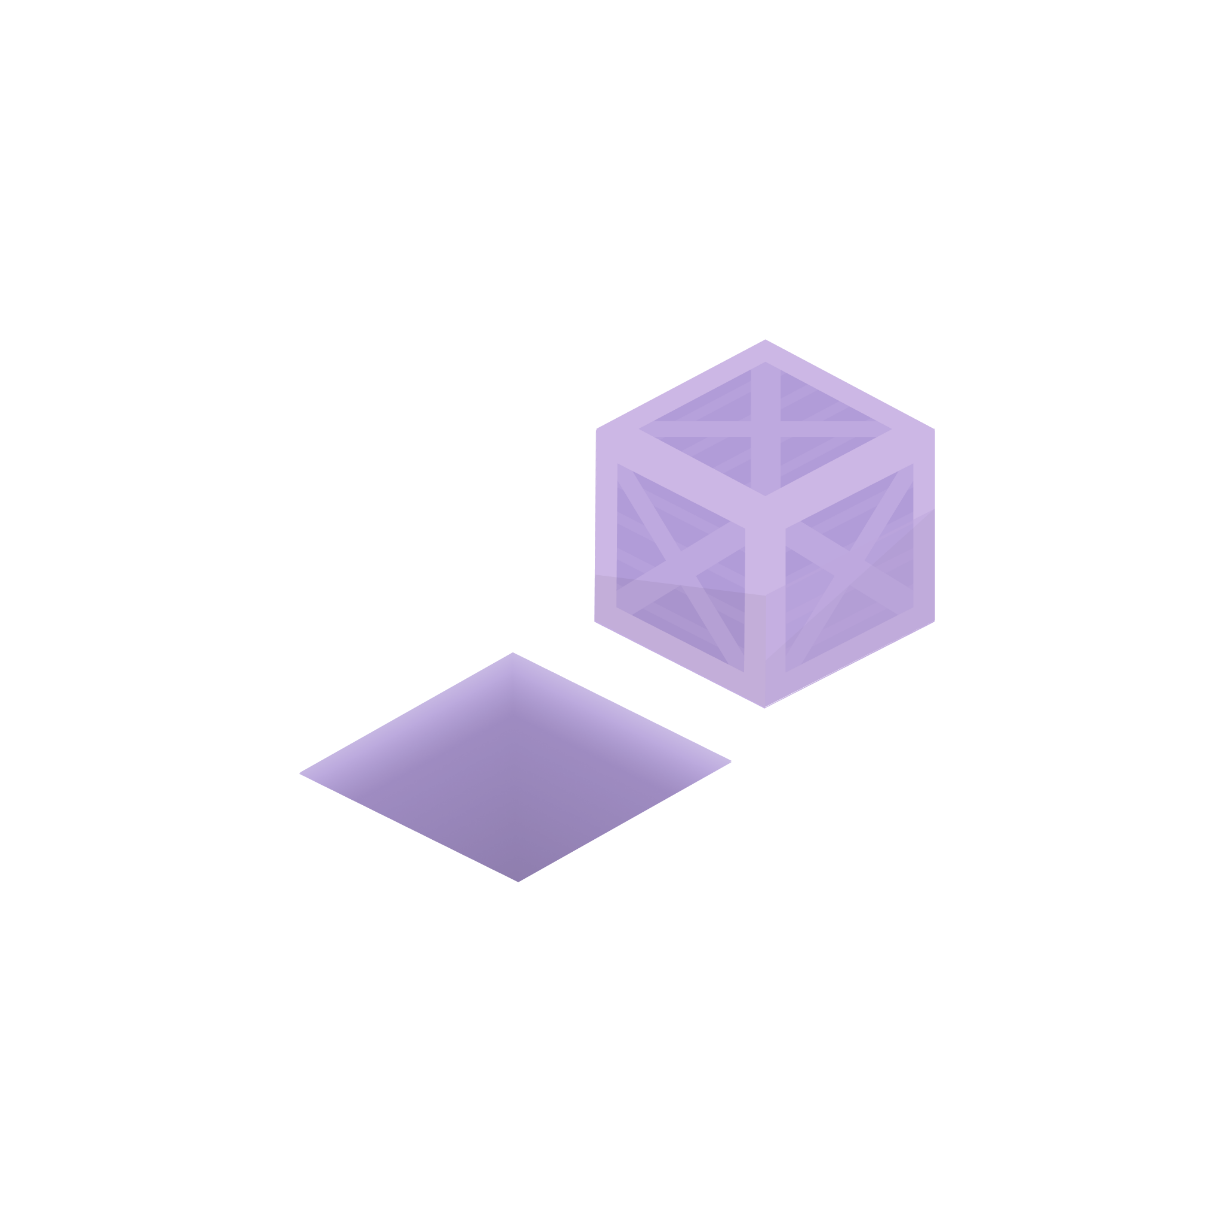
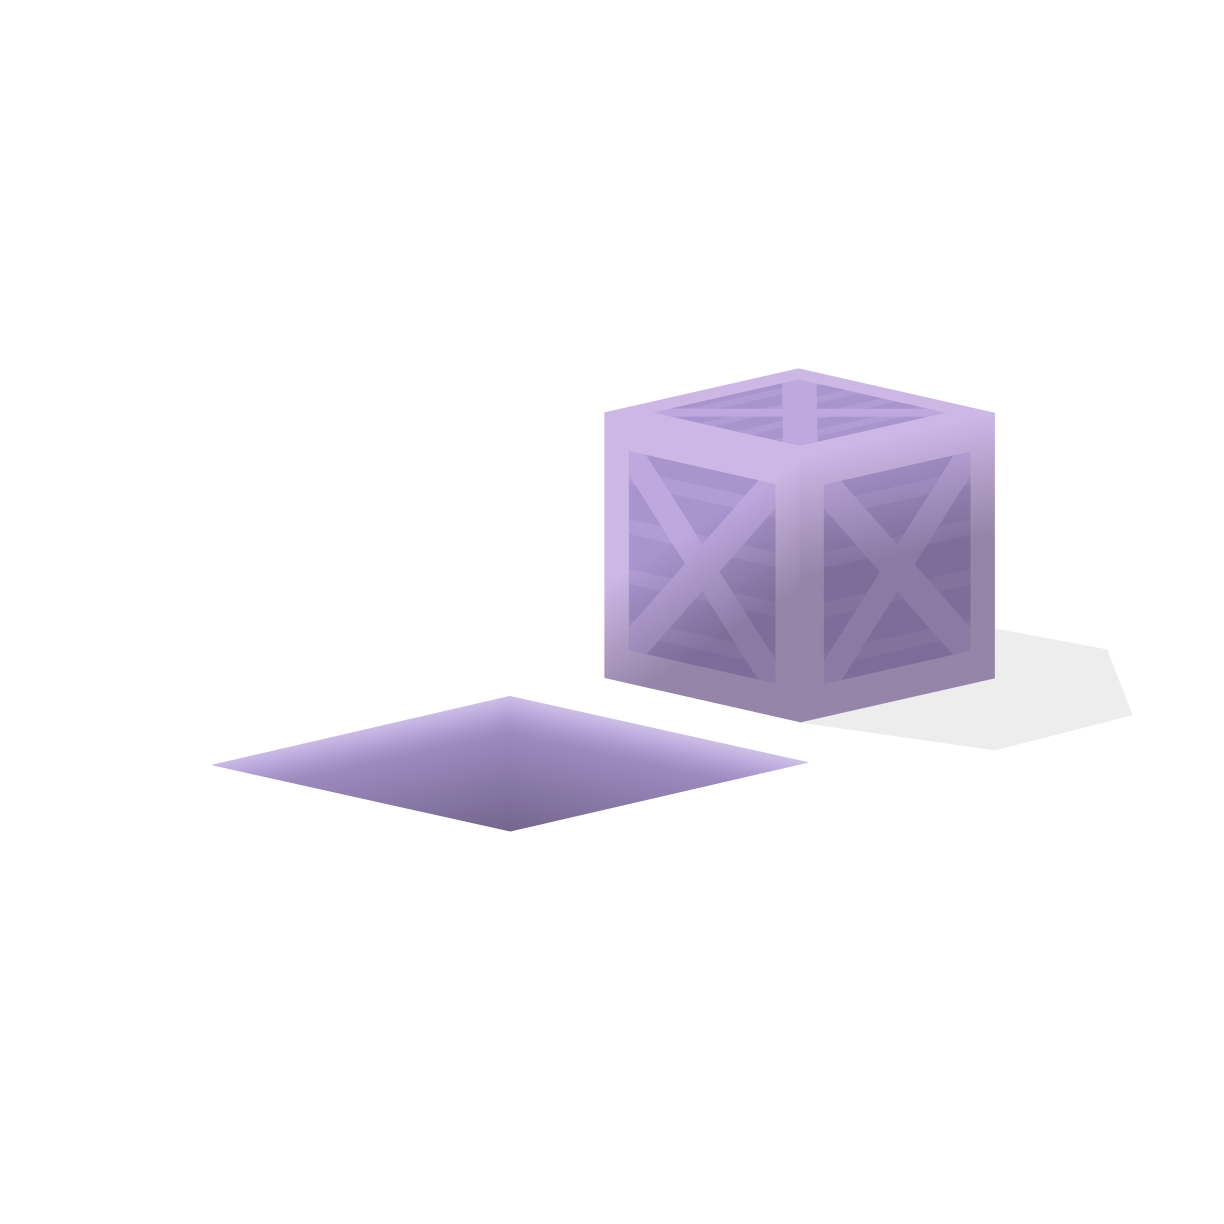
misc graphical and other changes, prep for 3d theme and other improvements

Changed region(s): [[0.3105, 0.2794, 0.8382, 0.652], [0.2794, 0.652, 0.5278, 0.7141], [0.1863, 0.5899, 0.3105, 0.652]]

diff --git a/Game.js b/Game.js
@@ -23,18 +23,18 @@ const blank_level = [
 ];
 const level_tutorial = [
   [1, 1, 1, 1, 1, 1, 1, 1],
-  [1, 0, 0, 0, 1, 4, 0, 1],
-  [1, 0, 7, 0, 1, 0, 4, 1],
-  [1, 0, 0, 0, 1, 5, 0, 1],
-  [1, 4, 4, 4, 1, 1, 1, 1],
-  [1, 0, 0, 0, 12, 6, 0, 1],
-  [1, 0, 0, 0, 1, 0, 0, 1],
-  [1, 1, 1, 1, 1, 4, 4, 1],
-  [1, 0, 0, 0, 1, 5, 5, 1],
-  [1, 0, 6, 0, 2, 0, 0, 1],
-  [1, 0, 0, 0, 1, 0, 0, 1],
-  [1, 0, 8, 0, 1, 0, 0, 1],
-  [1, 0, 0, 0, 1, 0, 3, 1],
+  [1, 0, 0, 4, 0, 0, 0, 5],
+  [1, 7, 0, 4, 0, 0, 0, 5],
+  [1, 0, 6, 4, 0, 0, 0, 5],
+  [1, 1, 1, 1, 1, 1, 0, 1],
+  [1, 0, 3, 0, 0, 0, 4, 1],
+  [1, 0, 0, 0, 4, 0, 5, 1],
+  [1, 0, 0, 0, 0, 6, 0, 1],
+  [1, 5, 0, 4, 0, 0, 0, 1],
+  [1, 5, 1, 1, 1, 1, 1, 1],
+  [1, 0, 0, 5, 1, 0, 0, 0],
+  [1, 0, 0, 4, 2, 0, 8, 0],
+  [1, 0, 6, 0, 1, 0, 0, 0],
   [1, 1, 1, 1, 1, 1, 1, 1],
 ];
 const level_easy_peasy = [
@@ -51,6 +51,22 @@ const level_easy_peasy = [
   [1, 1, 1, 1, 13, 0, 4, 1],
   [1, 0, 6, 5, 0, 4, 0, 1],
   [1, 0, 0, 0, 4, 0, 0, 1],
+  [1, 1, 1, 1, 1, 1, 1, 1],
+];
+const level_having_a_blast = [
+  [1, 1, 1, 1, 1, 1, 1, 1],
+  [0, 0, 1, 0, 0, 5, 4, 5],
+  [0, 0, 2, 4, 7, "b:25", 5, 0],
+  [6, 0, 1, 0, 13, 0, 0, 0],
+  [0, 0, 1, 5, 0, 0, 0, 4],
+  [4, 0, 1, 0, 4, 0, 0, 5],
+  [0, 4, 1, 0, 0, 0, 4, 1],
+  [0, 0, 1, 1, 4, 4, 4, 1],
+  [0, 0, 5, 1, 4, 6, 3, 1],
+  [0, 0, 0, 1, 1, 13, 13, 1],
+  [0, 0, 0, 5, 6, 0, 0, 1],
+  [0, 0, 4, 1, 0, 8, 0, 1],
+  [5, 4, 5, 1, 0, 0, 0, 1],
   [1, 1, 1, 1, 1, 1, 1, 1],
 ];
 const level_rooms = [
@@ -181,7 +197,7 @@ const level_race_the_clock = [
   [4, 4, 0, 0, 0, 0, 5, 4],
   [0, 4, 0, 4, 0, 0, 0, 5],
 ];
-const level_marathon = [ // Marathon
+const level_marathon = [
   [4, 4, 5, 0, 0, 6, 1, 4],
   [5, 0, 5, 4, 0, 5, 0, 0],
   [0, 5, 0, 5, 1, 0, 0, 0],
@@ -197,7 +213,7 @@ const level_marathon = [ // Marathon
   [4, 0, 3, 4, 0, 0, "b:40", 1],
   [4, 0, 5, 5, 4, 0, 2, 6],
 ];
-const level_no_way_home = [ // No Way Home
+const level_no_way_home = [
   [4, 0, 1, 1, 0, 14, 0, 6],
   [4, 3, 4, 0, 5, 0, 5, 1],
   [5, 4, 5, 0, 0, 5, 0, 0],
@@ -213,7 +229,7 @@ const level_no_way_home = [ // No Way Home
   [5, 8, 1, 0, 4, 5, 1, 0],
   [0, 0, 1, 1, 0, 12, 0, 3],
 ];
-const level_prison = [ // Prison
+const level_prison = [
   [0, 5, 3, 4, 0, 0, 4, 0],
   [0, 4, 6, 5, 0, 0, 4, 4],
   [0, 1, 1, 0, 0, 0, 0, 0],
@@ -311,7 +327,7 @@ const level_doubling_up = [
 ];
 const level_warzone = [
   [5, 4, 5, 5, 0, 4, 0, 11,],
-  [4, 1, 6, 4, 1, 13, 4, 5,],
+  [4, 1, 6, 5, 1, 13, 4, 5,],
   [5, 3, 5, 0, 1, 6, 12, 0,],
   [4, 4, 0, 0, 0, 4, 1, 4,],
   [0, 1, 5, 0, 13, 0, 1, 6,],
@@ -326,9 +342,17 @@ const level_warzone = [
   [5, 4, "b:10", 4, 0, 5, 0, 4,],
 ];
 
+// LEVEL IDEAS:
+// Pesky Coin (coins blocking crates)
+// Key Chain (tons of keys & doors)
+// Potholes (lots of craters)
+// Demolition Man (no craters only bombs)
+// Payday (tons of coins)
+
 const defaults = [
   createLevelObj("Tutorial", "default", level_tutorial),
   createLevelObj("Easy Peasy", "default", level_easy_peasy),
+  createLevelObj("Having a Blast", "default", level_having_a_blast),
   createLevelObj("Rooms", "default", level_rooms),
   createLevelObj("Choices", "default", level_choices),
   createLevelObj("Running Laps", "default", level_running_laps),

diff --git a/pages/CreateLevel.js b/pages/CreateLevel.js
@@ -310,7 +310,7 @@ export default function CreateLevel({ viewCallback, playLevelCallback, editorLev
         {/* END MODAL */}
 
         <View style={styles.buttonsRow}>
-          <SimpleButton onPress={() => { toggleToolsModal(); }} text="Tools & Options" />
+          <SimpleButton onPress={() => { toggleToolsModal(); }} text="Tools & Options" main={true}/>
           <View style={{ width: normalize(15) }} />
           <SimpleButton onPress={() => {
             saveLevelToStorage(levelObj, levelObj.name);

diff --git a/pages/Settings.js b/pages/Settings.js
@@ -51,7 +51,7 @@ export default function Settings({ pageCallback, darkModeCallback, audioModeCall
         <MenuButton onPress={() => {
           const newTheme = nextTheme();
           setThemeCallback(newTheme);
-        }} value={null} label="Change App Theme" icon={graphics.THEME_ICON} />
+        }} value={null} label="Change App Theme" icon={graphics.THEME_ICON} disabled={true}/>
 
         <View style={{ height: 15 }} />
         <SliderBar label="Drag Sensitivity" value={newDragSens} units={"%"}

diff --git a/README.md b/README.md
@@ -1,4 +1,5 @@
-<img src="assets/main_theme/banner.png" alt="Crates and Craters" style="width: 100%;"/>
+<!-- <img src="assets/main_theme/banner.png" alt="Crates and Craters" style="width: 100%;"/> -->
+<img src="misc/banner.png" alt="Crates and Craters" style="width: 100%; border-radius: 10px; margin-bottom: 20px;"/>
 
 <h2 style="display: flex; align-items: center;">
   About
@@ -27,14 +28,14 @@ Built with JavaScript and React Native, Crates and Craters is a single player pu
     <td>
       <picture>
         <source 
-          srcset="misc/screenshot_1_dark.jpg"
+          srcset="misc/screenshot_1_dark.png"
           media="(prefers-color-scheme: dark)"
         />
         <source
-          srcset="misc/screenshot_1.jpg"
+          srcset="misc/screenshot_1.png"
           media="(prefers-color-scheme: light), (prefers-color-scheme: no-preference)"
         />
-        <img src="misc/screenshot_1.jpg"/>
+        <img src="misc/screenshot_1.png"/>
       </picture>
     </td>
     <td style="padding-left: 10%;">
@@ -67,14 +68,14 @@ Built with JavaScript and React Native, Crates and Craters is a single player pu
     <td>
       <picture>
         <source 
-          srcset="misc/screenshot_4_dark.jpg"
+          srcset="misc/screenshot_4_dark.png"
           media="(prefers-color-scheme: dark)"
         />
         <source
-          srcset="misc/screenshot_4.jpg"
+          srcset="misc/screenshot_4.png"
           media="(prefers-color-scheme: light), (prefers-color-scheme: no-preference)"
         />
-        <img src="misc/screenshot_4.jpg"/>
+        <img src="misc/screenshot_4.png"/>
       </picture>
     </td>
   </tr>
@@ -85,14 +86,14 @@ Built with JavaScript and React Native, Crates and Craters is a single player pu
     <td>
       <picture>
         <source 
-          srcset="misc/screenshot_5_dark.jpg"
+          srcset="misc/screenshot_5_dark.png"
           media="(prefers-color-scheme: dark)"
         />
         <source
-          srcset="misc/screenshot_5.jpg"
+          srcset="misc/screenshot_5.png"
           media="(prefers-color-scheme: light), (prefers-color-scheme: no-preference)"
         />
-        <img src="misc/screenshot_5.jpg"/>
+        <img src="misc/screenshot_5.png"/>
       </picture>
     </td>
     <td style="padding-left: 10%;">
@@ -138,14 +139,14 @@ Built with JavaScript and React Native, Crates and Craters is a single player pu
     <td>
       <picture>
         <source 
-          srcset="misc/screenshot_6_dark.jpg"
+          srcset="misc/screenshot_6_dark.png"
           media="(prefers-color-scheme: dark)"
         />
         <source
-          srcset="misc/screenshot_6.jpg"
+          srcset="misc/screenshot_6.png"
           media="(prefers-color-scheme: light), (prefers-color-scheme: no-preference)"
         />
-        <img src="misc/screenshot_6.jpg"/>
+        <img src="misc/screenshot_6.png"/>
       </picture>
     </td>
   </tr>
@@ -163,3 +164,4 @@ Built with JavaScript and React Native, Crates and Craters is a single player pu
 * Look into ways to have level sharing server
 * Rework how levels are marked as default?
 * Improve VirtualizedList performance especially as content length increases
+* Better way to do local level storage (read from file?)
